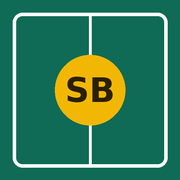
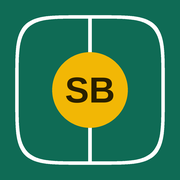
Add files via upload

Changed region(s): [[0.0556, 0.0556, 0.9444, 0.9444], [0.3611, 0.4167, 0.6389, 0.5833]]

diff --git a/index.html b/index.html
@@ -8,8 +8,8 @@
 <meta name="apple-mobile-web-app-title" content="Sunday Badminton">
 <meta name="apple-mobile-web-app-status-bar-style" content="default">
 <meta name="theme-color" content="#0F6B55">
-<link rel="apple-touch-icon" href="icon.png">
-<link rel="icon" type="image/png" href="icon.png">
+<link rel="apple-touch-icon" href="icon.png?v=2">
+<link rel="icon" type="image/png" href="icon.png?v=2">
 <style>html{-webkit-text-size-adjust:100%}:root{color-scheme:light;padding:env(safe-area-inset-top,0px) 0 env(safe-area-inset-bottom,0px)}body{margin:0;font-size:14px}img{max-width:100%}[hidden]{display:none!important}</style>
 <title>Sunday Badminton</title>
 <link rel="stylesheet" href="https://fonts.googleapis.com/css2?family=Chakra+Petch:wght@500;600;700&family=IBM+Plex+Sans+Thai:wght@400;500;600&display=swap">
@@ -105,7 +105,7 @@ h1{font-size:28px;font-weight:700} h2{font-size:20px;font-weight:600} h3{font-si
 .tk.up.wait b{font-size:26px;letter-spacing:.04em}
 .tk.up .who{position:absolute;bottom:8px;left:0;right:0;font-size:14px;font-weight:600;text-align:center;padding:0 6px;white-space:nowrap;overflow:hidden;text-overflow:ellipsis}
 .tk.up .av{position:absolute;top:6px;left:6px;width:32px;height:32px;font-size:11px;border-width:1px}
-@keyframes flip{from{transform:rotateY(90deg)}to{transform:none}}
+@keyframes flip{from{scale:0 1}to{scale:1 1}}
 @media (prefers-reduced-motion:reduce){.tk.up.new{animation:none}}
 
 /* team rows */
@@ -133,6 +133,12 @@ h1{font-size:28px;font-weight:700} h2{font-size:20px;font-weight:600} h3{font-si
 .court .side{display:flex;flex-direction:column;align-items:center;gap:6px;min-width:0}
 .court .side .nm{font-size:14px;font-weight:500;overflow-wrap:anywhere;line-height:1.25}
 .court .side .tno{font-family:var(--f-display);font-size:12px;opacity:.85}
+.seg{display:inline-flex;border:1px solid var(--line);border-radius:999px;overflow:hidden;background:var(--surface);flex:none}
+.seg button{border:0;background:none;font-family:var(--f-display);font-weight:700;font-size:12px;letter-spacing:.06em;padding:8px 12px;color:var(--muted);cursor:pointer;min-height:36px}
+#acts .seg{display:flex}#acts .seg button{flex:1}
+.seg button.on{background:var(--accent);color:var(--accent-ink)}
+.team.vsrow .nm{flex:1;min-width:0}.team.vsrow .vsm{font-family:var(--f-display);font-weight:700;font-size:12px;color:var(--muted);padding:0 6px}
+.tgrid:not(.fit){padding:8px 6px}
 .court .vs.live{width:auto;height:auto;min-width:40px;border-radius:12px;padding:4px 10px;white-space:nowrap}
 .court .vs{font-family:var(--f-display);font-weight:700;font-size:18px;background:var(--accent);color:var(--accent-ink);width:40px;height:40px;border-radius:50%;display:grid;place-items:center}
 .court .hint{font-size:12px;opacity:.85}
@@ -532,6 +538,8 @@ const duo=(ids,kind,cls)=>'<span class="duo">'+ids.map(i=>av(i,kind,cls)).join('
 const ses=()=>S.session;
 const team=id=>ses().teams.find(t=>t.id===id);
 const busyTeamIds=()=>new Set(ses().courts.flatMap(c=>c.teams||[]));
+const single=()=>!!ses()&&ses().mode==='single';const U=()=>single()?'คน':'คู่';
+const tnoL=t=>t.w?'WAIT':(single()?'เบอร์ ':'คู่ ')+t.no;
 const idleTeams=()=>{const b=busyTeamIds();return ses().teams.filter(t=>!b.has(t.id))};
 let toastT;function toast(msg){const t=$('#toast');t.textContent=msg;t.hidden=false;clearTimeout(toastT);toastT=setTimeout(()=>{t.hidden=true},2200)}
 const rkey=m=>m.r||'r0';
@@ -585,28 +593,33 @@ function vPick(){const ps=activePlayers();[...pickSel].forEach(id=>{if(!P(id)||P
     pgrid(ps.map(p=>pcell(p,pickSel.has(p.id)?'on':'','togglePick')).join('')+addCell),acts:cta}}
 let justDrawn=-1;
 function benchRow(id,txt,act){const tag=act?'button':'div';return '<'+tag+' class="team wait"'+(act?' data-a="openSwap" data-id="'+esc(id)+'"':'')+'><span class="tn">WAIT</span>'+av(id,'photo','sm')+'<span class="nm">'+esc(pname(id))+(txt||'')+'</span></'+tag+'>'}
-function vDraw(){const s=ses(),left=s.ids.filter(id=>!s.tickets.some(t=>t.by===id)),done=left.length===0,rn='Round '+ensureRound(s).no;
+function vDraw(){const s=ses();if(mess.length!==s.tickets.length)messUp(s.tickets.length);const left=s.ids.filter(id=>!s.tickets.some(t=>t.by===id)),done=left.length===0,rn='Round '+ensureRound(s).no;
   const chips=left.map(id=>'<button class="chip'+(s.drawer===id?' pick':'')+'" data-a="setDrawer" data-id="'+esc(id)+'">'+av(id,'photo','sm')+'<span class="nm">'+esc(pname(id))+'</span></button>').join('');
   const tix=s.tickets.map((t,i)=>t.by?
-      '<div class="tk up'+(t.l==='W'?' wait':'')+(justDrawn===i?' new':'')+'">'+av(t.by)+'<b>'+(t.l==='W'?'WAIT':t.l)+'</b><span class="who">'+esc(pname(t.by))+'</span></div>':
-      '<button class="tk down" data-a="drawTicket" data-i="'+i+'" aria-label="ฉลากคว่ำ"><b>?</b></button>').join('');
+      '<div class="tk up'+(t.l==='W'?' wait':'')+(justDrawn===i?' new':'')+'" style="transform:'+messT(i)+';z-index:'+(mess[i]?mess[i].z:1)+'">'+av(t.by)+'<b>'+(t.l==='W'?'WAIT':t.l)+'</b><span class="who">'+esc(pname(t.by))+'</span></div>':
+      '<button class="tk down" data-a="drawTicket" data-i="'+i+'" aria-label="ฉลากคว่ำ" style="transform:'+messT(i)+';z-index:'+(mess[i]?mess[i].z:1)+'"><b>?</b></button>').join('');
   const step2=s.drawer?esc(pname(s.drawer))+' เลือกฉลาก 1 ใบ':'เลือกคนจับ แล้วแตะฉลาก 1 ใบ';
   const shuf='<button class="btn sm" data-a="reshuffle">สุ่มคละใหม่</button>';
-  const teams=s.teams.map(t=>teamRow(t)).join('')+s.bench.map(id=>benchRow(id,LAND?' รอก่อน':' นั่งรอก่อน แล้วสลับกับผู้ชนะ match แรก 1 คน')).join('');
+  const sg=s.mode==='single',five=s.ids.length===5;let teams;
+  if(sg){teams='';for(let i=0;i+1<s.teams.length;i+=2){const a=s.teams[i],b=s.teams[i+1];if(a.w||b.w||a.no!==b.no)break;
+      teams+='<div class="team vsrow"><span class="tn">'+a.no+'</span>'+av(a.m[0],'photo','sm')+'<span class="nm">'+esc(pname(a.m[0]))+'</span><span class="vsm">VS</span>'+av(b.m[0],'photo','sm')+'<span class="nm">'+esc(pname(b.m[0]))+'</span></div>'}
+    teams+=s.teams.filter(t=>t.w).map(t=>benchRow(t.m[0],LAND?' รอคิว':' รอคิวลง match ถัดไป')).join('')}
+  else teams=s.teams.map(t=>teamRow(t)).join('')+s.bench.map(id=>benchRow(id,LAND?' รอก่อน':' นั่งรอก่อน แล้วสลับกับ'+(five?'ฝั่งแพ้':'ผู้ชนะ')+' match แรก 1 คน')).join('');
+  const modeT='<div class="seg" role="group" aria-label="โหมดการแข่ง"><button class="'+(sg?'':'on')+'" data-a="setMode" data-m="double">DOUBLE</button><button class="'+(sg?'on':'')+'" data-a="setMode" data-m="single">SINGLE</button></div>';
   const RND='<svg class="rnd" viewBox="0 0 48 48" aria-hidden="true"><defs><linearGradient id="rndg" x1="0" y1="0" x2="0" y2="1"><stop offset="0" stop-color="#FFA23A"/><stop offset="1" stop-color="#FF2D62"/></linearGradient></defs><circle cx="24" cy="24" r="24" fill="url(#rndg)"/><path d="M33.500 25a9.500 9.500 0 1 1-5.300-8.500" fill="none" stroke="#fff" stroke-width="4.600" stroke-linecap="round"/><path d="M27 10.600l9.200 5.200-8.600 5.600z" fill="#fff"/></svg>';
   const again='<button class="btn sm rndb" data-a="redraw" data-confirm="แตะอีกครั้ง จับใหม่ทั้งหมด">'+RND+'<span>จับฉลากใหม่</span></button>';
   const next='<button class="btn pri block" data-a="toSetup">ไปจัดสนามแข่ง</button>';
   if(LAND){
-    if(done)return {title:rn+' · ผลจับฉลาก',main:'<div class="fit rows" data-fit="4.5">'+teams+'</div>',acts:again+next};
+    if(done)return {title:rn+' · ผลจับฉลาก',main:'<div class="fit rows" data-fit="4.5">'+teams+'</div>',acts:modeT+again+next};
     return {title:rn+' · จับฉลาก',main:'<div class="split"><div class="names"><div class="label">คนจับ · เหลือ '+left.length+'</div><div class="fit rows" data-fit="3">'+chips+'</div></div>'+
       '<div class="tgrid fit tix" data-fit=".8" id="tgrid">'+tix+'</div></div>',acts:'<div><b>'+step2+'</b></div>'+shuf}}
   let h=done?'<div class="row"><h1 class="grow">'+rn+' · ผลการจับฉลาก</h1>'+again+'</div>':'<h1>'+rn+' · จับฉลาก</h1>';
   if(!done)h+='<div class="stack"><div class="label">1 · เลือกคนจับ (เหลือ '+left.length+' คน)</div><div class="dchips">'+chips+'</div></div>'+
     '<div class="stack"><div class="row"><div class="label grow">2 · '+step2+'</div>'+shuf+'</div><div class="tgrid" id="tgrid">'+tix+'</div></div>';
-  else h+='<div class="tgrid" id="tgrid">'+tix+'</div><div class="stack"><div class="label">คู่ที่ได้</div>'+teams+'</div>';
+  else h+='<div class="tgrid" id="tgrid">'+tix+'</div><div class="stack"><div class="row"><div class="label grow">'+(sg?'คู่แข่งที่ได้ · เบอร์เดียวกันเจอกัน':'คู่ที่ได้')+'</div>'+modeT+'</div>'+teams+'</div>';
   return {main:h,acts:done?next:''}}
-function teamRow(t,attrs,cls){return '<'+(attrs?'button':'div')+' class="team '+(cls||'')+'" '+(attrs||'')+'><span class="tn">'+t.no+'</span>'+duo(t.m,'photo','sm')+'<span class="nm">'+esc(names(t.m))+'</span></'+(attrs?'button':'div')+'>'}
-function sideHtml(t,cls,kind,tag){return '<div class="side">'+duo(t.m,kind||'photo',cls||'')+(tag||'<span class="tno">คู่ '+t.no+'</span>')+'<span class="nm">'+esc(names(t.m))+'</span></div>'}
+function teamRow(t,attrs,cls){return '<'+(attrs?'button':'div')+' class="team '+(cls||'')+'" '+(attrs||'')+'><span class="tn">'+(t.w?'W':t.no)+'</span>'+duo(t.m,'photo','sm')+'<span class="nm">'+esc(names(t.m))+'</span></'+(attrs?'button':'div')+'>'}
+function sideHtml(t,cls,kind,tag){return '<div class="side">'+duo(t.m,kind||'photo',cls||'')+(tag||'<span class="tno">'+tnoL(t)+'</span>')+'<span class="nm">'+esc(names(t.m))+'</span></div>'}
 function vSetup(){const s=ses(),max=Math.max(1,Math.min(3,Math.floor(s.teams.length/2)));
   if(s.nCourts>max)s.nCourts=max;
   const minus='<button class="btn" data-a="nCourts" data-d="-1"'+(s.nCourts<=1?' disabled':'')+' aria-label="ลดสนาม">−</button>',plus='<button class="btn" data-a="nCourts" data-d="1"'+(s.nCourts>=max?' disabled':'')+' aria-label="เพิ่มสนาม">+</button>';
@@ -637,7 +650,7 @@ function vPlay(){const s=ses(),rn='Round '+ensureRound(s).no;
   if(LAND)return {title:rn,main:'<div class="courts" style="--n:'+s.courts.length+'">'+courts+'</div>'+(q?'<div class="fit rows queue" data-fit="4.5">'+q+'</div>':''),
     acts:'<div class="small muted">แตะที่สนามเพื่อจดคะแนน แข่งจบแล้วกดบันทึกผล</div>'+addB+rmB+pairB};
   return {main:'<div class="row"><h1 class="grow">'+rn+'</h1>'+addB+'</div>'+courts+
-    '<div class="stack"><div class="label">รอคิว</div>'+(q||'<p class="muted small">ทุกคู่อยู่ในสนาม</p>')+'</div>'+rmB,acts:pairB}}
+    '<div class="stack"><div class="label">รอคิว</div>'+(q||'<p class="muted small">ทุก'+U()+'อยู่ในสนาม</p>')+'</div>'+rmB,acts:pairB}}
 
 /* ---------- summary ---------- */
 function stats(k,rid){return agg((S.days[k]||{matches:[]}).matches.filter(m=>!rid||rkey(m)===rid))}
@@ -645,7 +658,7 @@ function agg(ms){const pl={},pr={};
   const pp=id=>pl[id]||(pl[id]={id,g:0,w:0,t:0,pf:0,pa:0});
   ms.forEach(m=>{[['a','b',m.sa,m.sb],['b','a',m.sb,m.sa]].forEach(([me,,f,ag])=>{const ids=m[me],won=m.w===me;
       ids.forEach(id=>{const x=pp(id);x.g++;x.t+=m.dur||0;x.pf+=f;x.pa+=ag;if(won)x.w++});
-      const key=[...ids].sort().join('|'),x=pr[key]||(pr[key]={ids:[...ids].sort(),g:0,w:0,pf:0,pa:0});x.g++;x.pf+=f;x.pa+=ag;if(won)x.w++})});
+      if(ids.length===2){const key=[...ids].sort().join('|'),x=pr[key]||(pr[key]={ids:[...ids].sort(),g:0,w:0,pf:0,pa:0});x.g++;x.pf+=f;x.pa+=ag;if(won)x.w++}})});
   const players=Object.values(pl).sort((a,b)=>b.w-a.w||b.w/b.g-a.w/a.g||(b.pf-b.pa)-(a.pf-a.pa));
   const pairs=Object.values(pr).sort((a,b)=>b.w-a.w||b.w/b.g-a.w/a.g||(b.pf-b.pa)-(a.pf-a.pa));
   return {ms,players,pairs,byTime:[...players].sort((a,b)=>b.t-a.t)}}
@@ -712,7 +725,7 @@ function vSummary(){const keys=Object.keys(S.days).filter(k=>S.days[k].matches.l
   if(!st.ms.length)return LAND?{title,main:sels+none,acts:newB}:{main:'<h1>'+title+'</h1>'+(roundDone?'<div class="panel stack">'+doneNote+newB+'</div>':'')+sels+none};
   const w=st.players[0],t=st.byTime[0],bp=st.pairs[0];
   const pods=podium('ชนะบ่อยสุด',st.players,'win',x=>x.w+' ชนะ',x=>'จาก '+x.g+' match')+podium('On-court นานสุด',st.byTime,'photo',x=>esc(mins(x.t)),x=>x.g+' match');
-  const best='<section class="panel bestp"><div class="label">คู่ที่เก่งที่สุด</div><div class="row">'+duo(bp.ids,'win','')+'<div class="grow"><b>'+esc(names(bp.ids))+'</b><div class="small muted">'+bp.w+' ชนะ จาก '+bp.g+' match · แต้มได้เสีย '+diff(bp)+'</div></div></div></section>';
+  const best=!bp?'':'<section class="panel bestp"><div class="label">คู่ที่เก่งที่สุด</div><div class="row">'+duo(bp.ids,'win','')+'<div class="grow"><b>'+esc(names(bp.ids))+'</b><div class="small muted">'+bp.w+' ชนะ จาก '+bp.g+' match · แต้มได้เสีย '+diff(bp)+'</div></div></div></section>';
   if(LAND){
     const tabs=[['hl','อันดับ'],['pl','รายคน'],['pr','รายคู่'],['ms','match']];let body,pages=1;
     if(sTab==='hl')body='<div class="pods">'+pods+'</div>';
@@ -787,24 +800,25 @@ function refreshFin(){const a=fin.sa,b=fin.sb,ok=a!==b;
   const c=ses().courts[fin.c],[ta,tb]=c.teams.map(team);
   $('#finMsg').textContent=ok?'ผู้ชนะ: '+names((a>b?ta:tb).m):'กรอกคะแนนให้ต่างกันเพื่อระบุผู้ชนะ'}
 const swapBtn=(cls,benchId,id,extra)=>'<button class="'+cls+'" data-a="doSwap" data-b="'+esc(benchId)+'" data-id="'+esc(id)+'" data-confirm="ยืนยันสลับ '+esc(pname(id))+'">'+av(id,'photo','sm')+'<span class="nm">'+esc(pname(id))+(extra||'')+'</span></button>';
-function swapChips(benchId){const list=[];idleTeams().forEach(t=>t.m.forEach(id=>list.push(id)));
+function swapChips(benchId){const list=[];ses().teams.forEach(t=>t.m.forEach(id=>list.push(id)));
   if(!list.length)return '<p class="small muted">ยังไม่มีคู่ที่ว่างให้สลับ</p>';
   return '<div class="'+(LAND?'fit rows" data-fit="3':'row')+'">'+list.map(id=>swapBtn('chip',benchId,id)).join('')+'</div>'}
 function shNext(){const s=ses(),idle=idleTeams();let res='',swp='';
   if(nx.m){const m=nx.m,W=m.w==='a'?m.a:m.b,Lz=m.w==='a'?m.b:m.a,ws=Math.max(m.sa,m.sb),lsc=Math.min(m.sa,m.sb);
     res='<div class="panel result"><div class="w">'+duo(W,'win','lg')+'<div class="tag">ชนะ</div><div class="small">'+esc(names(W))+'</div></div><div class="sc">'+ws+'–'+lsc+'</div><div class="l">'+duo(Lz,'lose','lg')+'<div class="tag">แพ้</div><div class="small">'+esc(names(Lz))+'</div></div></div>'}
-  if(nx.swapped)swp='<div class="panel">'+esc(nx.swapped)+'</div>';
-  else if(nx.m&&nx.win&&s.bench.length){const id=s.bench[0],cand=nx.manual?team(nx.win).m.concat(team(nx.lose).m):team(nx.win).m;
-    swp='<div class="panel stack"><div><b>'+esc(pname(id))+'</b> รออยู่ จะสลับลงแทนใคร <span class="muted small">(แตะชื่อ 2 ครั้ง)</span></div><div class="row swaprow">'+cand.map(pid=>swapBtn(nx.manual?'chip':'btn grow',id,pid)).join('')+'</div></div>'+
-      (nx.manual?'':'<button class="btn sm block manb" data-a="swapManual">สลับแบบ manual</button>')}
-  const outB=nx.out?'<div class="panel small">'+nx.out.ids.map(id=>'<b>'+esc(names(team(id).m))+'</b>').join(', ')+' ชนะติดกัน 2 match'+(nx.out.ok?' · พักก่อน ให้คู่อื่นลง':' · ยังไม่มีคู่อื่นให้เปลี่ยน')+'</div>':'';
+  if(nx.m&&nx.win&&s.bench.length&&team(nx.win)&&team(nx.lose)){const id=s.bench[0],all=nx.manual||nx.swapped,cand=all?team(nx.win).m.concat(team(nx.lose).m):team(s.ids.length===5?nx.lose:nx.win).m;
+    swp=(nx.swapped?'<div class="panel">'+esc(nx.swapped)+'</div>':'')+
+      (!nx.swapped||nx.manual?'<div class="panel stack"><div><b>'+esc(pname(id))+'</b> รออยู่ จะสลับลงแทนใคร <span class="muted small">(แตะชื่อ 2 ครั้ง)</span></div><div class="row swaprow">'+cand.map(pid=>swapBtn(all?'chip':'btn grow',id,pid)).join('')+'</div></div>':'')+
+      (nx.manual?'':'<button class="btn sm block manb" data-a="swapManual">'+(nx.swapped?'แก้ไข · สลับแบบ manual':'สลับแบบ manual')+'</button>')}
+  else if(nx.swapped)swp='<div class="panel">'+esc(nx.swapped)+'</div>';
+  const outB=nx.out?'<div class="panel small">'+nx.out.ids.map(id=>'<b>'+esc(names(team(id).m))+'</b>').join(', ')+' ชนะติดกัน 2 match'+(nx.out.ok?' · พักก่อน ให้'+U()+'อื่นลง':' · ยังไม่มี'+U()+'อื่นให้เปลี่ยน')+'</div>':'';
   const rows=idle.map(t=>teamRow(t,'data-a="selTeam" data-id="'+t.id+'"',nx.sel.includes(t.id)?'on':'')).join('');
-  const few=idle.length<2?'<p class="small muted">คู่ที่ว่างมีไม่ถึง 2 คู่ รอให้สนามอื่นแข่งจบก่อน</p>':'';
+  const few=idle.length<2?'<p class="small muted">'+U()+'ที่ว่างมีไม่ถึง 2 '+U()+' รอให้สนามอื่นแข่งจบก่อน</p>':'';
   const btns='<button class="btn pri block" data-a="startNext"'+(nx.sel.length===2?'':' disabled')+'>ลงสนาม · เริ่มจับเวลา</button>'+
     '<button class="btn block" data-a="endRound" data-confirm="1">'+endLabel()+'</button>';
   const title='สนาม '+(nx.c+1)+' · คู่ถัดไป';
-  if(LAND)return sh(title,'<div class="ncols'+(res||swp?'':' one')+'">'+(res||swp?'<div>'+res+swp+'</div>':'')+'<div>'+outB+'<div class="label">เลือก 2 คู่ลงสนาม</div>'+few+'<div class="fit rows" data-fit="4.5">'+rows+'</div></div></div>',btns);
-  return sh(title,res+swp+outB+'<div class="stack"><div class="label">เลือก 2 คู่ลงสนาม</div>'+few+rows+'</div>',btns)}
+  if(LAND)return sh(title,'<div class="ncols'+(res||swp?'':' one')+'">'+(res||swp?'<div>'+res+swp+'</div>':'')+'<div>'+outB+'<div class="label">เลือก 2 '+U()+'ลงสนาม</div>'+few+'<div class="fit rows" data-fit="4.5">'+rows+'</div></div></div>',btns);
+  return sh(title,res+swp+outB+'<div class="stack"><div class="label">เลือก 2 '+U()+'ลงสนาม</div>'+few+rows+'</div>',btns)}
 function buildPair(){const s=ses(),cs=[];s.courts.forEach((c,i)=>{if(c.res&&!c.teams)cs.push(i)});
   const idle=idleTeams(),ok=id=>idle.some(t=>t.id===id),tags={};
   cs.forEach(i=>{const r=s.courts[i].res;tags[r.w]='w';tags[r.l]='l'});
@@ -819,9 +833,10 @@ function shPair(){const s=ses(),q=idleTeams().filter(t=>!pr.slots.includes(t.id)
   let grid='';pr.cs.forEach((ci,k)=>{grid+='<span class="pl">สนาม '+(ci+1)+'</span>'+tb(pr.slots[2*k])+'<span class="pv">VS</span>'+tb(pr.slots[2*k+1])});
   for(let i=0;i<q.length;i+=2)grid+='<span class="pl muted">รอคิว</span>'+tb(q[i])+'<span class="pv"></span>'+(q[i+1]?tb(q[i+1]):'<span></span>');
   let swp='';
-  if(pr.swapped)swp='<div class="panel">'+esc(pr.swapped)+'</div>';
-  else if(s.bench.length){const id=s.bench[0],win=[];pr.slots.concat(q).forEach(t=>{if(pr.tags[t]==='w'||(pr.manual&&pr.tags[t]==='l'))team(t).m.forEach(p=>win.push(p))});
-    if(win.length)swp='<div class="panel stack"><div><b>'+esc(pname(id))+'</b> รออยู่ จะสลับลงแทนใคร <span class="muted small">(แตะชื่อ 2 ครั้ง)</span></div><div class="row swaprow">'+win.map(p=>swapBtn('chip',id,p)).join('')+'</div></div>'+(pr.manual?'':'<button class="btn sm block manb" data-a="swapManual">สลับแบบ manual</button>')}
+  if(s.bench.length){const id=s.bench[0],win=[],all=pr.manual||pr.swapped;pr.slots.concat(q).forEach(t=>{if(pr.tags[t]==='w'||(all&&pr.tags[t]==='l'))team(t).m.forEach(p=>win.push(p))});
+    if(pr.swapped)swp='<div class="panel">'+esc(pr.swapped)+'</div>';
+    if(win.length&&(!pr.swapped||pr.manual))swp+='<div class="panel stack"><div><b>'+esc(pname(id))+'</b> รออยู่ จะสลับลงแทนใคร <span class="muted small">(แตะชื่อ 2 ครั้ง)</span></div><div class="row swaprow">'+win.map(p=>swapBtn('chip',id,p)).join('')+'</div></div>';
+    if(win.length&&!pr.manual)swp+='<button class="btn sm block manb" data-a="swapManual">'+(pr.swapped?'แก้ไข · สลับแบบ manual':'สลับแบบ manual')+'</button>'}
   const hint='<div class="small muted">'+(pr.pick?'แตะอีกคู่เพื่อสลับตำแหน่งกับ '+esc(names(team(pr.pick).m)):'จัดให้แล้ว: ชนะเจอชนะ แพ้เจอแพ้ · แตะ 2 คู่เพื่อสลับตำแหน่ง')+'</div>';
   const body='<div class="pgc">'+grid+'</div>';
   const btns='<button class="btn pri block" data-a="startPair"'+(pr.cs.length?'':' disabled')+'>ลงสนาม · เริ่มจับเวลา</button><button class="btn block" data-a="endRound" data-confirm="1">'+endLabel()+'</button>';
@@ -839,7 +854,7 @@ function importData(obj){if(!obj||typeof obj!=='object'||(!obj.players&&!obj.day
   for(const k in obj.days||{}){if(!/^\d{4}-\d{2}-\d{2}$/.test(k))continue;const cur=S.days[k]||(S.days[k]={matches:[],gone:[]}),have=new Set(cur.matches.map(m=>m.id));
     (obj.days[k].matches||[]).forEach(m=>{if(m&&m.id&&!have.has(m.id)&&!(cur.gone||[]).includes(m.id)){cur.matches.push(m);nm++}});cur.matches.sort((a,b)=>a.t-b.t);saveDay(k)}
   toast('นำเข้าแล้ว: ผู้เล่น '+np+' คน · match ใหม่ '+nm+' รายการ');render()}
-function shSwap(){return sh('สลับตัว','<div class="row">'+av(sw,'photo','')+'<span class="grow"><b>'+esc(pname(sw))+'</b> เข้าแทนใคร <span class="muted small">(แตะชื่อ 2 ครั้ง)</span></span></div>'+swapChips(sw)+(LAND?'':'<p class="small muted">สลับได้เฉพาะคนที่ไม่ได้อยู่ในสนามตอนนี้</p>'),'')}
+function shSwap(){return sh('สลับตัว','<div class="row">'+av(sw,'photo','')+'<span class="grow"><b>'+esc(pname(sw))+'</b> เข้าแทนใคร <span class="muted small">(แตะชื่อ 2 ครั้ง)</span></span></div>'+swapChips(sw)+(LAND?'':'<p class="small muted">สลับได้ทุกคน รวมถึงคนที่กำลังแข่งอยู่ในสนาม</p>'),'')}
 const hot=t=>(t.streak||0)>=2;
 function presel(m){const idle=idleTeams(),hots=idle.filter(hot),pool=idle.filter(t=>!hot(t));if(nx)nx.out=null;
   if(hots.length){if(nx)nx.out={ids:hots.map(t=>t.id),ok:pool.length>=2};
@@ -857,6 +872,15 @@ function shrink(file){return new Promise((res,rej)=>{const r=new FileReader();r.
 
 /* ---------- actions ---------- */
 let shufBusy=false;
+/* doubles: same number = partners. singles: same number = opponents, every player is a one-person side */
+function buildTeams(s){const k=Math.floor(s.ids.length/2),W=s.tickets.filter(x=>x.l==='W').map(x=>x.by);s.teams=[];
+  for(let n=1;n<=k;n++){const h=s.tickets.filter(x=>x.l===n).map(x=>x.by);
+    if(s.mode==='single')h.forEach((id,j)=>s.teams.push({id:'t'+n+'ab'[j],no:n,m:[id]}));else s.teams.push({id:'t'+n,no:n,m:h})}
+  if(s.mode==='single'){W.forEach(id=>s.teams.push({id:'tw',no:k+1,w:1,m:[id]}));s.bench=[]}else s.bench=W}
+/* tickets lie on the table a little crooked; every reshuffle throws them down differently */
+let mess=[];const rnd=(a,b)=>a+Math.random()*(b-a);
+function messUp(n){mess=Array.from({length:n},()=>({r:rnd(-11,11),x:rnd(-9,9),y:rnd(-7,7),z:1+Math.floor(Math.random()*4)}))}
+const messT=i=>{const m=mess[i]||{r:0,x:0,y:0,z:1},f=LAND?.5:1;return 'translate('+(m.x*f).toFixed(1)+'%,'+(m.y*f).toFixed(1)+'%) rotate('+(m.r*f).toFixed(1)+'deg)'};
 /* live score: kept per court, keyed by that match's start time so an old score never leaks into the next match */
 const live={};
 function liveFor(i){const s=ses(),c=s&&s.courts&&s.courts[i],l=live['c'+i];return l&&c&&c.teams&&c.start&&l.k===String(c.start)?l:null}
@@ -883,29 +907,29 @@ const A={
   pickAll(){activePlayers().forEach(p=>pickSel.add(p.id));ls.set('bd.lastPick',[...pickSel]);render()},
   pickNone(){pickSel.clear();ls.set('bd.lastPick',[]);render()},
   genTickets(){const ids=[...pickSel];if(ids.length<4)return;
-    S.session={rid:'r'+uid(),no:nextRoundNo(),stage:'draw',ids,tickets:shuffle(ticketLabels(ids.length)).map(l=>({l,by:null})),drawer:null,teams:[],bench:[],courts:[],nCourts:1};
+    messUp(ids.length);S.session={rid:'r'+uid(),no:nextRoundNo(),stage:'draw',mode:'double',ids,tickets:shuffle(ticketLabels(ids.length)).map(l=>({l,by:null})),drawer:null,teams:[],bench:[],courts:[],nCourts:1};
     saveSession();view='draw';render();scrollTo(0,0)},
   setDrawer(d){ses().drawer=d.id;render()},
   reshuffle(){if(shufBusy)return;const s=ses(),idx=[],labs=[];s.tickets.forEach((t,i)=>{if(!t.by){idx.push(i);labs.push(t.l)}});
-    const mix=()=>{shuffle(labs);idx.forEach((i,j)=>{s.tickets[i].l=labs[j]});saveSession();render()};
+    const mix=()=>{messUp(s.tickets.length);shuffle(labs);idx.forEach((i,j)=>{s.tickets[i].l=labs[j]});saveSession();render()};
     const g=$('#tgrid'),offs=()=>{const gr=g0().getBoundingClientRect(),cx=gr.left+gr.width/2,cy=gr.top+gr.height/2;
       return [...g0().querySelectorAll('.tk.down')].map((el,k,all)=>{const r=el.getBoundingClientRect(),m=(all.length-1)/2;
-        return {el,x:cx-(r.left+r.width/2)+(k-m)*1.5,y:cy-(r.top+r.height/2)-(k-m)*1.2,rot:((k*37)%25)-12}})},g0=()=>$('#tgrid');
+        const i=+el.dataset.i,ms=mess[i]||{x:0,y:0},f=LAND?.5:1,w=el.offsetWidth,h=el.offsetHeight;
+        return {el,t:messT(i),x:cx-(r.left+r.width/2-ms.x*f*w/100)+(k-m)*1.5,y:cy-(r.top+r.height/2-ms.y*f*h/100)-(k-m)*1.2,rot:((k*37)%25)-12}})},g0=()=>$('#tgrid');
     if(!g||!g.animate||idx.length<2){mix();toast('คละฉลากใหม่แล้ว');return}
     shufBusy=true;const pile=o=>`translate(${o.x}px,${o.y}px) rotate(${o.rot}deg) scale(.92)`;
-    offs().forEach((o,k)=>{o.el.style.zIndex=5+k;o.el.animate([{transform:'none'},{transform:pile(o)}],{duration:380,easing:'cubic-bezier(.5,0,.3,1)',fill:'forwards'})
+    offs().forEach((o,k)=>{o.el.style.zIndex=5+k;o.el.animate([{transform:o.t},{transform:pile(o)}],{duration:380,easing:'cubic-bezier(.5,0,.3,1)',fill:'forwards'})
       .finished.then(()=>o.el.animate([{transform:pile(o)},{transform:pile({x:o.x+(k%2?9:-9),y:o.y,rot:-o.rot})},{transform:pile(o)}],{duration:260,easing:'ease-in-out',fill:'forwards'})).catch(()=>{})});
     setTimeout(()=>{mix();const list=offs();let left=list.length;const done=()=>{if(--left<=0){shufBusy=false}};
-      list.forEach((o,k)=>{o.el.style.zIndex=5+k;const an=o.el.animate([{transform:pile(o)},{transform:'none'}],{duration:420,delay:k*35,easing:'cubic-bezier(.2,.8,.3,1)',fill:'backwards'});
-        an.finished.then(()=>{o.el.style.zIndex='';done()}).catch(done)});
+      list.forEach((o,k)=>{o.el.style.zIndex=5+k;const an=o.el.animate([{transform:pile(o)},{transform:o.t}],{duration:420,delay:k*35,easing:'cubic-bezier(.2,.8,.3,1)',fill:'backwards'});
+        an.finished.then(()=>{const i=+o.el.dataset.i;o.el.style.zIndex=mess[i]?mess[i].z:1;done()}).catch(done)});
       setTimeout(()=>{shufBusy=false},420+list.length*35+200);toast('คละฉลากใหม่แล้ว')},660)},
   drawTicket(d){if(shufBusy)return;const s=ses();if(!s.drawer){toast('เลือกคนจับก่อน แล้วค่อยแตะฉลาก');return}
     const t=s.tickets[+d.i];if(!t||t.by)return;t.by=s.drawer;s.drawer=null;justDrawn=+d.i;setTimeout(()=>{justDrawn=-1},400);
-    if(s.tickets.every(x=>x.by)){const k=Math.floor(s.ids.length/2);s.teams=[];
-      for(let n=1;n<=k;n++)s.teams.push({id:'t'+n,no:n,m:s.tickets.filter(x=>x.l===n).map(x=>x.by)});
-      s.bench=s.tickets.filter(x=>x.l==='W').map(x=>x.by)}
+    if(s.tickets.every(x=>x.by))buildTeams(s);
     saveSession();render()},
-  redraw(){const s=ses();s.tickets=shuffle(ticketLabels(s.ids.length)).map(l=>({l,by:null}));s.drawer=null;s.teams=[];s.bench=[];s.stage='draw';saveSession();toast('คละฉลากใหม่แล้ว เริ่มจับได้เลย');render();scrollTo(0,0)},
+  setMode(d){const s=ses();if(!s||s.stage!=='draw'||!s.tickets.every(x=>x.by))return;s.mode=d.m==='single'?'single':'double';buildTeams(s);saveSession();render()},
+  redraw(){const s=ses();messUp(s.ids.length);s.mode='double';s.tickets=shuffle(ticketLabels(s.ids.length)).map(l=>({l,by:null}));s.drawer=null;s.teams=[];s.bench=[];s.stage='draw';saveSession();toast('คละฉลากใหม่แล้ว เริ่มจับได้เลย');render();scrollTo(0,0)},
   toSetup(){const s=ses();s.stage='setup';saveSession();view='setup';render();scrollTo(0,0)},
   nCourts(d){const s=ses();s.nCourts=Math.max(1,Math.min(3,s.nCourts+(+d.d)));saveSession();render()},
   startPlay(){const s=ses(),now=Date.now();s.courts=[];for(let i=0;i<s.nCourts;i++)s.courts.push({teams:[s.teams[2*i].id,s.teams[2*i+1].id],start:now});
@@ -939,7 +963,7 @@ const A={
   startPair(){const s=ses(),now=Date.now(),b=busyTeamIds();if(!pr.cs.length||pr.slots.some(id=>b.has(id)))return;
     idleTeams().forEach(t=>{if(hot(t)&&!pr.slots.includes(t.id))t.streak=0});
     pr.cs.forEach((ci,k)=>{s.courts[ci]={teams:[pr.slots[2*k],pr.slots[2*k+1]],start:now}});saveSession();closeSheet()},
-  doSwap(d){const s=ses(),bi=s.bench.indexOf(d.b),t=idleTeams().find(x=>x.m.includes(d.id));if(bi<0||!t)return;
+  doSwap(d){const s=ses(),bi=s.bench.indexOf(d.b),t=s.teams.find(x=>x.m.includes(d.id));if(bi<0||!t)return;if(pr)pr.manual=false;if(nx)nx.manual=false;
     t.m[t.m.indexOf(d.id)]=d.b;s.bench[bi]=d.id;t.streak=0;saveSession();toast(pname(d.b)+' เข้า · '+pname(d.id)+' พัก');
     if(sheet==='swap')closeSheet();else{if(pr)pr.swapped=pname(d.b)+' ลงเล่นแทน '+pname(d.id)+' · '+pname(d.id)+' พัก';if(nx)nx.swapped=pname(d.b)+' ลงเล่นแทน '+pname(d.id)+' · '+pname(d.id)+' พัก';render()}},
   sumTab(d){sTab=d.t;sPage=0;render()},
@@ -1001,7 +1025,7 @@ loadLocal();setSync('wait');render();connect();
 </script>
 <script>
 /* pick up a newer deploy even when the phone has an older copy cached */
-(function(){var B='1791344160';fetch('index.html?_='+Date.now(),{cache:'no-store'}).then(function(r){return r.text()}).then(function(t){var m=t.match(/var B='([0-9]+)'/);if(m&&+m[1]>+B&&sessionStorage.getItem('bd.upd')!==m[1]){sessionStorage.setItem('bd.upd',m[1]);location.replace(location.pathname+'?v='+m[1])}}).catch(function(){})})();
+(function(){var B='1791345842';fetch('index.html?_='+Date.now(),{cache:'no-store'}).then(function(r){return r.text()}).then(function(t){var m=t.match(/var B='([0-9]+)'/);if(m&&+m[1]>+B&&sessionStorage.getItem('bd.upd')!==m[1]){sessionStorage.setItem('bd.upd',m[1]);location.replace(location.pathname+'?v='+m[1])}}).catch(function(){})})();
 </script>
 </body>
 </html>
